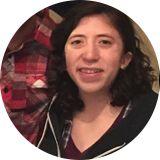
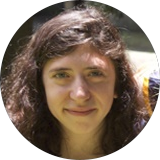
Updated About Page for the new year
-Removed old officers 15-16
-Added new offiers 16-17

diff --git a/About/about.html b/About/about.html
@@ -28,155 +28,154 @@
     <img src="Assets/banner.png"></img>
     <figcaption>Founded in 2014, Gamespawn @ University of Riverside is a student organization that focuses on introducting students to game development. Our organization teaches students game design, art, and programming through competitions and guest speakers. We do our best not only to motivate and encourage students to learn about game development, but also to provide a professional and comfortable environment for engineers, programmers, designers, and artists.</figcaption>
     </figure>
-    
+
 </div>
 
 <!--------------------------------------------OFFICERS------------------------------------------------->
 <div class="Wrapper">
-    
-<p class="BoardTitle">Officer Board 2016-2017</p><br>
-<div class="Officer">
-    <figure>
-        <img src="Assets/quynh.png"></img>
-        <figcaption>
-            <p class="OfficerTitle">President</p>
-            Quynh Nguyen <br>
-            3rd Year <br>
-            Computer Science <br>
-            qnguy019@ucr.edu
-        </figcaption>
-    
-    </figure>
 
+  <p class="BoardTitle">Officer Board 2016-2017</p><br>
+  <div class="Officer">
+      <figure>
+          <img src="Assets/darren.png"></img>
+          <figcaption>
+              <p class="OfficerTitle">President</p>
+              Darren Houn <br>
+              4th Year <br>
+              Computer Science <br>
+              dhoun001@ucr.edu
+          </figcaption>
+
+      </figure>
+
+  </div>
+
+  <div class="Officer">
+      <figure>
+          <img src="Assets/rotem.png"></img>
+          <figcaption>
+              <p class="OfficerTitle">Vice President</p>
+              Rotem Werner<br>
+              3rd Year <br>
+              Computer Science <br>
+              rwern002@ucr.edu
+          </figcaption>
+
+      </figure>
+
+  </div>
+
+  <div class="Officer">
+      <figure>
+          <img src="Assets/jaclyn.png"></img>
+          <figcaption>
+              <p class="OfficerTitle">Treasurer</p>
+              Jaclyn Huang <br>
+              2nd Year <br>
+              Art <br>
+              jhuan057@ucr.edu
+          </figcaption>
+
+      </figure>
+
+  </div>
+
+  <div class="Officer">
+      <figure>
+          <img src="Assets/anjin.png"></img>
+          <figcaption>
+              <p class="OfficerTitle">Secretary</p>
+              Anjin Huang<br>
+              3rd Year <br>
+              Plant Biology <br>
+              ahuan022@ucr.edu
+          </figcaption>
+
+      </figure>
+
+  </div>
+
+  <br> <!---In case you're wondering, this nifty br makes a new row of officers to make things look nice ---->
+
+  <div class="Officer">
+      <figure>
+          <img src="Assets/jasiel.png"></img>
+          <figcaption>
+              <p class="OfficerTitle">Workshop Coord.</p>
+              Jasiel Jimenez <br>
+              3rd Year <br>
+              Computer Science <br>
+              jjime038@ucr.edu
+          </figcaption>
+
+      </figure>
+
+  </div>
+
+  <div class="Officer">
+      <figure>
+          <img src="Assets/lorenzo.png"></img>
+          <figcaption>
+              <p class="OfficerTitle">Project Coord.</p>
+              Lorenzo Alamillo <br>
+              3rd Year <br>
+              Computer Science <br>
+              lalam003@ucr.edu
+          </figcaption>
+
+      </figure>
+
+  </div>
+
+  <div class="Officer">
+      <figure>
+          <img src="Assets/chris.png"></img>
+          <figcaption>
+              <p class="OfficerTitle">Outreach Coord.</p>
+              Chris Pribyl <br>
+              4th Year <br>
+              Computational Math <br>
+              cprib001@ucr.edu
+          </figcaption>
+
+      </figure>
+  </div>
+
+  <div class="Officer">
+      <figure>
+          <img src="Assets/emmilio.png"></img>
+          <figcaption>
+              <p class="OfficerTitle">Event Coord.</p>
+              Emmilio Segovia <br>
+              4th Year <br>
+              Computer Science <br>
+              esego001@ucr.edu
+          </figcaption>
+
+      </figure>
+  </div>
+  <div class="Officer">
+      <figure>
+          <img src="Assets/joseph.png"></img>
+          <figcaption>
+              <p class="OfficerTitle">Webmaster</p>
+              Joseph Pacia <br>
+              4th Year <br>
+              Computer Science <br>
+              jpaci001@ucr.edu
+          </figcaption>
+
+      </figure>
+
+  </div>
 </div>
 
-<div class="Officer">
-    <figure>
-        <img src="Assets/david.png"></img>
-        <figcaption>
-            <p class="OfficerTitle">Vice President</p>
-            David Zhang<br>
-            3rd Year <br>
-            Computer Science <br>
-            dzhan008@ucr.edu
-        </figcaption>
-    
-    </figure>
-
-</div>
-
-<div class="Officer">
-    <figure>
-        <img src="Assets/darren.png"></img>
-        <figcaption>
-            <p class="OfficerTitle">Treasurer</p>
-            Darren Houn <br>
-            3rd Year <br>
-            Computer Science <br>
-            dhoun001@ucr.edu
-        </figcaption>
-    
-    </figure>
-
-</div>
-
-<div class="Officer">
-    <figure>
-        <img src="Assets/anjin.png"></img>
-        <figcaption>
-            <p class="OfficerTitle">Secretary</p>
-            Anjin Huang<br>
-            2nd Year <br>
-            Plant Biology <br>
-            ahuan022@ucr.edu
-        </figcaption>
-    
-    </figure>
-
-</div>
-
-<br> <!---In case you're wondering, this nifty br makes a new row of officers to make things look nice ---->
-
-<div class="Officer">
-    <figure>
-        <img src="Assets/chris.png"></img>
-        <figcaption>
-            <p class="OfficerTitle">Workshop Coord.</p>
-            Chris Pribyl <br>
-            3rd Year <br>
-            Computational Math <br>
-            cprib001@ucr.edu
-        </figcaption>
-    
-    </figure>
-
-</div>
-
-<div class="Officer">
-    <figure>
-        <img src="Assets/john.png"></img>
-        <figcaption>
-            <p class="OfficerTitle">Project Coord.</p>
-            John Li <br>
-            5th Year <br>
-            Computer Science <br>
-            jli042@ucr.edu
-        </figcaption>
-    
-    </figure>
-
-</div>
-
-<div class="Officer">
-    <figure>
-        <img src="Assets/danny.png"></img>
-        <figcaption>
-            <p class="OfficerTitle">Co Project Coord.</p>
-            Danny Diep <br>
-            3rd Year <br>
-            Computer Science <br>
-            ddiep003@ucr.edu
-        </figcaption>
-    
-    </figure>
-
-</div>
-
-<div class="Officer">
-    <figure>
-        <img src="Assets/nancy.png"></img>
-        <figcaption>
-            <p class="OfficerTitle">Outreach Coord.</p>
-            Nancy Gao <br>
-            3rd Year <br>
-            Business <br>
-            ngao001@ucr.edu
-        </figcaption>
-    
-    </figure>
-</div>
-
-<div class="Officer">
-    <figure>
-        <img src="Assets/rotem.png"></img>
-        <figcaption>
-            <p class="OfficerTitle">Event Coord.</p>
-            Rotem Werner <br>
-            2nd Year <br>
-            Computer Science <br>
-            rwern002@ucr.edu
-        </figcaption>
-    
-    </figure>
-</div>
-
-</div>
 
 
 <!--------------------------------------------CREDITS-------------------------------------------------->
 
 <div class="Wrapper">
-    
+
 <p class="BoardTitle">Credits</p><br>
 <div class="Officer">
     <figure>
@@ -188,7 +187,7 @@
             Computer Science <br>
             qnguy019@ucr.edu
         </figcaption>
-    
+
     </figure>
 
 </div>
@@ -203,7 +202,7 @@
             Computer Science <br>
             dzhan008@ucr.edu
         </figcaption>
-    
+
     </figure>
 
 </div>
@@ -218,7 +217,7 @@
             Computer Science <br>
             msheng@ucsd.edu
         </figcaption>
-    
+
     </figure>
 
 </div>
@@ -233,7 +232,7 @@
             Computer Science <br>
             bgutz001@ucr.edu
         </figcaption>
-    
+
     </figure>
 
 </div>
@@ -243,4 +242,4 @@
 
 </body>
 
-</html> 
+</html>
